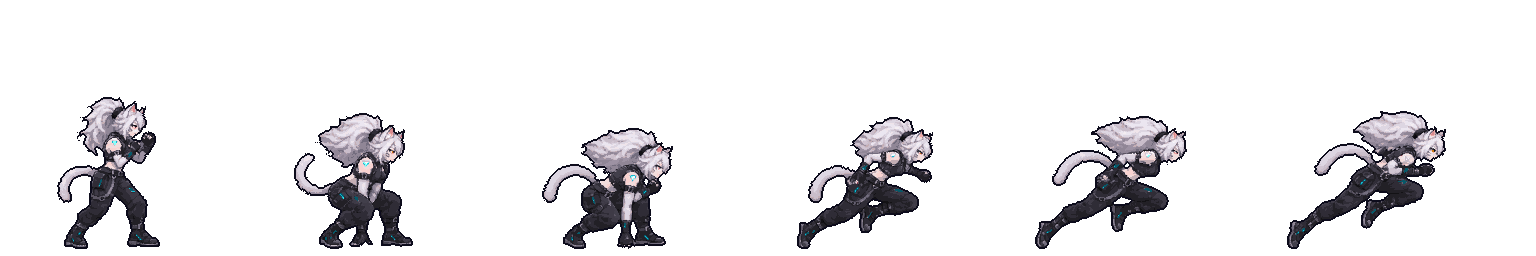
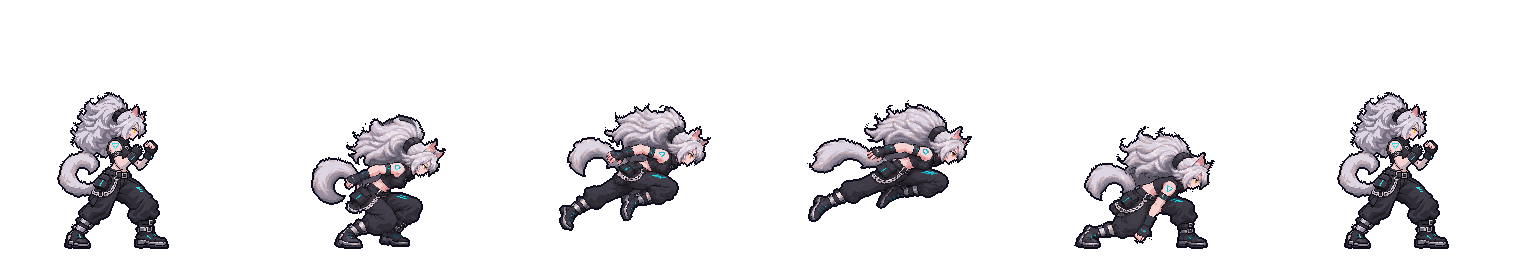
feat(feline) : le Bond astral vient des nouvelles frames, en HD ×2, avec une traînée nette (#226)
- Le dash avant joue la garde, l'appel, le bond, la course en l'air, la réception et la
  garde, sur 1, 2, 3, 4, 3 et 3 tics (16 tics, comme le coup) ; l'annulation boost
  garde ses frames.
- La fumée grise et les traits de vitesse gris de la série ChatGPT sont effacés. Le
  trait qui passait sur la queue est repeint avec la fourrure autour.
- La série était dessinée 1,09 fois plus petite que la référence : elle est remise à la
  taille de la garde (314 px de haut en HD, comme la garde).
- Les gardes de début et de fin sont celles de la référence : celles de la série,
  dessinées de face, étaient 16 % plus larges.
- La vitesse est rendue par une traînée nette derrière elle (fx/dashForward), un cœur
  blanc sur du cyan qui s'efface dans les teintes de traînée, sur le bond, la course
  et la réception.

Claude-Session: https://claude.ai/code/session_01JBLzLMjZS6VPwWpKajS2YB

diff --git a/src/art/feline/cells.ts b/src/art/feline/cells.ts
@@ -478,16 +478,29 @@ export const FELINE_CELLS: Readonly<Record<string, Cell>> = {
     ],
   },
   dashForward: {
-    width: 163,
-    height: 156,
-    anchor: { x: 123, y: 153 },
+    width: 169,
+    height: 161,
+    anchor: { x: 91, y: 158 },
     frames: [
-      { x: 52, y: 2, width: 103, height: 152 },
-      { x: 33, y: 18, width: 119, height: 136 },
-      { x: 25, y: 33, width: 131, height: 121 },
-      { x: 24, y: 22, width: 136, height: 132 },
-      { x: 6, y: 21, width: 152, height: 133 },
-      { x: 2, y: 16, width: 159, height: 138 },
+      { x: 20, y: 2, width: 112, height: 157 },
+      { x: 18, y: 24, width: 135, height: 135 },
+      { x: 10, y: 13, width: 152, height: 128 },
+      { x: 2, y: 10, width: 165, height: 122 },
+      { x: 13, y: 36, width: 141, height: 123 },
+      { x: 20, y: 2, width: 112, height: 157 },
+    ],
+  },
+  'fx/dashForward': {
+    width: 94,
+    height: 67,
+    anchor: { x: 126, y: 119 },
+    frames: [
+      { x: 0, y: 0, width: 0, height: 0 },
+      { x: 0, y: 0, width: 0, height: 0 },
+      { x: 19, y: 10, width: 48, height: 55 },
+      { x: 2, y: 2, width: 90, height: 53 },
+      { x: 36, y: 34, width: 34, height: 26 },
+      { x: 0, y: 0, width: 0, height: 0 },
     ],
   },
   dashBack: {

diff --git a/tests/tools/feline-hd.test.ts b/tests/tools/feline-hd.test.ts
@@ -9,7 +9,7 @@ const atlasOf = async (path: string): Promise<Atlas> =>
   JSON.parse(new TextDecoder().decode(await readFile(art(path)))) as Atlas;
 
 describe('Feline in HD (tools/sprites/generate.ts keepHd)', () => {
-  it('shows her guard, walks, crouch and jumps from their HD images, in both colorways', () => {
+  it('shows her guard, walks, crouch, jumps and dash from their HD images, in both colorways', () => {
     expect(Object.keys(FELINE.hd ?? {})).toEqual([
       'idle',
       'walkForward',
@@ -17,6 +17,7 @@ describe('Feline in HD (tools/sprites/generate.ts keepHd)', () => {
       'crouch',
       'jump',
       'jumpForward',
+      'dashForward',
     ]);
     expect(Object.keys(FELINE_ALT.hd ?? {})).toEqual([
       'idle',
@@ -25,6 +26,7 @@ describe('Feline in HD (tools/sprites/generate.ts keepHd)', () => {
       'crouch',
       'jump',
       'jumpForward',
+      'dashForward',
     ]);
   });
 

diff --git a/src/art/feline/clips.ts b/src/art/feline/clips.ts
@@ -91,7 +91,8 @@ export const FELINE_CLIPS: FighterClips<FelineClip> = {
   pummel: play('pummel', [3, 3, 1, 9]), // active: frame 2
   throwForward: play('throwForward', [3, 3, 4, 1, 6, 6, 6, 7]), // release: frame 3
   throwBack: play('throwBack', [3, 3, 4, 4, 1, 6, 7, 7, 7]), // release: frame 4
-  dashForward: play('dashForward', [1, 3, 3, 3, 3, 3]),
+  // Guard, take-off, leap, air dash, landing, guard: the air dash shown while it moves fastest.
+  dashForward: play('dashForward', [1, 2, 3, 4, 3, 3]),
   dashBack: play('dashBack', [1, 4, 4, 4, 4, 5]),
   boostCancel: { sheet: 'dashForward', frames: [0, 1, 2, 3, 5], ticks: [1, 3, 2, 3, 2] },
 
